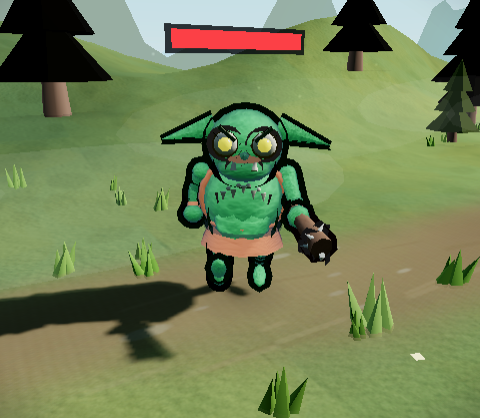
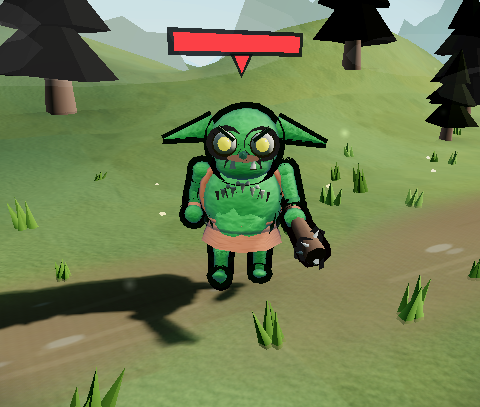
고블린 14개·임프 7개의 완전구도 유기 변형으로 (enemy-quality ⓒ 고블린·임프)
늑대에서 만든 sculptOrganic 을 그대로 적용. 눈알·뿔·발굽·송곳니·귀는
완전구/뾰족함이 정답이라 손대지 않았다.

- seed 를 base + s*k (s = -1/1) 로 지으면 서로 다른 파츠가 같은 값에 떨어진다:
  어깨(78-5)·팔꿈치(82-9)·손(86-13)이 셋 다 73 이 돼 개체차 0.0061 로 반려.
  좌우를 base/base+1 로 붙이는 것도 부족(0.0113) — 7 이상 벌려 0.0237.
- 버섯 갓은 일부러 남겼다: driveCapFlap 이 반지름을 축으로 정점을 흔들어서,
  정적 반경 변동을 얹으면 앞 세션의 플랩 측정이 조용히 깨진다.
- probe-flesh-sculpt 를 종 인자로 일반화 — 3종 15항목 전부 통과.
- 회귀: probe-enemy-ao 6종 후프 유출 0 · probe-screens-errors 31/31 에러 0.
- 인프라 함정 2건 인계: refresh 는 더러운 트리에서도 실패한다 / 프로브가
  도는 중에 stash 하면 헤드리스가 읽던 js 가 바뀌어 프로브가 통째로 죽는다.

diff --git a/web/js/scene3d.js b/web/js/scene3d.js
@@ -5926,11 +5926,17 @@ const Scene3D = {
             const skinM = lam(base, ProChar.hideTex());
             const skinD = lam(base.clone().offsetHSL(0, 0, -0.12), ProChar.hideTex());
             const clothM = lam(new THREE.Color(0x99442e), ProChar.leatherTex()); // 러스트 레드 — 초원 배경 보호색 탈피 악센트 (비평가 지적)
+            // 몸·머리·턱·배·관절·손발이 전부 완전구였다(ⓒ). 살이라 골렘의 각진 자가 아니라 유기 변형을 건다.
+            // ⚠ seed 를 `base + s * k`(s = -1/1) 로 짓지 말 것 — 서로 다른 파츠가 같은 값에 떨어진다.
+            //    실측: 어깨(78-5)·팔꿈치(82-9)·손(86-13)이 셋 다 73 이 돼 개체차 0.0061 로 반려됐다.
+            //    ⚠ 좌우를 base/base+1 로 붙여 두는 것도 부족했다(0.0113) — s0 = seed*2.3391 이라
+            //       인접 seed 는 위상이 비슷하다. 파츠마다 **7 이상 벌린** 값을 쓴다.
+            const oSp = (r, w, h, seed, amp) => this.sculptOrganic(new THREE.SphereGeometry(r, w, h), seed, { amp });
             // 분절 다리: 대퇴 → 무릎 → 정강이 → 발
             for (const s of [-1, 1]) {
                 const hip = new THREE.Group();
                 hip.position.set(s * 0.12, 0.42, 0);
-                const hJ = mk(new THREE.SphereGeometry(0.065, 8, 6), skinM); // 고관절 구 — 걷기 스윙 시 몸통-다리 이음새 은폐
+                const hJ = mk(oSp(0.065, 8, 6, s > 0 ? 60 : 67, 0.09), skinM); // 고관절 구 — 걷기 스윙 시 몸통-다리 이음새 은폐
                 hip.add(hJ);
                 const thigh = limb(0.062, 0.05, 0.18, skinM);
                 thigh.rotation.x = -0.3; // 웅크린 자세
@@ -5938,7 +5944,7 @@ const Scene3D = {
                 knee.position.set(0, -0.16, 0.06);
                 const shin = limb(0.045, 0.04, 0.17, skinD);
                 shin.rotation.x = 0.35;
-                const foot = mk(new THREE.SphereGeometry(0.055, 8, 6), skinM);
+                const foot = mk(oSp(0.055, 8, 6, s > 0 ? 74 : 81, 0.10), skinM);
                 foot.position.set(0, -0.17, 0.07); foot.scale.set(0.8, 0.5, 1.7);
                 knee.add(shin, foot);
                 hip.add(thigh, knee);
@@ -5948,9 +5954,9 @@ const Scene3D = {
                 g.add(hip);
             }
             // 서양배 몸통 (앞으로 굽음) + 로인클로스 + 로프 벨트
-            body = mk(new THREE.SphereGeometry(0.24, 12, 10), skinM);
+            body = mk(oSp(0.24, 12, 10, 88, 0.10), skinM);
             body.position.set(0, 0.62, 0.02); body.scale.set(1, 1.12, 0.92); body.rotation.x = 0.22;
-            const belly = mk(new THREE.SphereGeometry(0.17, 10, 8), light);
+            const belly = mk(oSp(0.17, 10, 8, 95, 0.09), light);
             belly.position.set(0, 0.55, 0.14); belly.scale.set(1, 1.1, 0.55);
             const cloth = mk(new THREE.CylinderGeometry(0.2, 0.26, 0.14, 10, 1, true), clothM);
             cloth.material.side = THREE.DoubleSide;
@@ -5982,12 +5988,12 @@ const Scene3D = {
             }
             g.add(body, belly, cloth, rope, strap, neckG);
             // 머리: 큰 두상 + 대형 뾰족귀(안쪽 어두운 이중판) + 매부리코 + 언더바이트 송곳니
-            const head = mk(new THREE.SphereGeometry(0.21, 12, 10), skinM);
+            const head = mk(oSp(0.21, 12, 10, 102, 0.07), skinM);   // 눈·귀가 상대 배치라 진폭을 낮게
             head.position.set(0, 0.95, 0.08); head.scale.set(1, 0.95, 0.95);
             // 턱 그룹 — 언더바이트를 앞으로 빼(두상 구에 파묻히던 문제) 송곳니를 턱에 직접 앵커 (비평가: 이빨 부유)
             const jawG = new THREE.Group();
             jawG.position.set(0, 0.845, 0.19);
-            const jaw = mk(new THREE.SphereGeometry(0.13, 10, 8), skinD);
+            const jaw = mk(oSp(0.13, 10, 8, 109, 0.09), skinD);
             jaw.scale.set(1.15, 0.55, 0.9);
             jawG.add(jaw);
             const mouthLine = mk(new THREE.SphereGeometry(0.055, 8, 6), new THREE.MeshBasicMaterial({ color: 0x2e1c14 })); // 벌린 입 다크 심 — 입 위치 실종 지적 (비평가)
@@ -6023,18 +6029,18 @@ const Scene3D = {
             for (const s of [-1, 1]) {
                 const sh = new THREE.Group();
                 sh.position.set(s * 0.25, 0.78, 0.02);
-                const sJ = mk(new THREE.SphereGeometry(0.055, 8, 6), skinM); // 어깨 관절 구 — 팔 스윙 시 이음새 은폐
+                const sJ = mk(oSp(0.055, 8, 6, s > 0 ? 116 : 123, 0.09), skinM); // 어깨 관절 구 — 팔 스윙 시 이음새 은폐
                 sh.add(sJ);
                 const upper = limb(0.05, 0.042, 0.17, skinM);
                 upper.rotation.z = s * 0.25;
                 const elbow = new THREE.Group();
                 elbow.position.set(s * 0.05, -0.17, 0);
-                const eJ = mk(new THREE.SphereGeometry(0.042, 7, 5), skinM); // 팔꿈치 관절 구 — 굽힘 이음새 은폐
+                const eJ = mk(oSp(0.042, 7, 5, s > 0 ? 130 : 137, 0.09), skinM); // 팔꿈치 관절 구 — 굽힘 이음새 은폐
                 elbow.add(eJ);
                 const fore = limb(0.04, 0.036, 0.15, skinD);
                 const wristBand = mk(new THREE.CylinderGeometry(0.041, 0.041, 0.05, 8), clothM); // 손목 랩 악센트
                 wristBand.position.y = -0.12;
-                const hand = mk(new THREE.SphereGeometry(0.062, 8, 6), skinM); // 큼직한 주먹 — 국수 가락 팔 끝 오독 방지
+                const hand = mk(oSp(0.062, 8, 6, s > 0 ? 144 : 151, 0.11), skinM); // 큼직한 주먹 — 국수 가락 팔 끝 오독 방지
                 hand.position.y = -0.16; hand.scale.set(1, 0.85, 1.1);
                 elbow.add(fore, wristBand, hand);
                 if (s > 0) { // 가시 몽둥이 — 주먹 중심을 자루가 관통하도록 (손목 옆 부유 금지)
@@ -6290,6 +6296,8 @@ const Scene3D = {
             const skinM = lam(base, ProChar.hideTex());
             const skinD = lam(base.clone().offsetHSL(0, 0, -0.12), ProChar.hideTex());
             const boneM = new THREE.MeshLambertMaterial({ color: 0xf3ead6 });
+            // 몸·머리·배·관절·손이 전부 완전구였다(ⓒ). 살이라 유기 변형을 건다(뿔·발굽 Cone 은 뾰족함이 정답이라 그대로).
+            const oSp = (r, w, h, seed, amp) => this.sculptOrganic(new THREE.SphereGeometry(r, w, h), seed, { amp });
             // 디지타이그레이드 다리: 대퇴 → 역관절 정강이 → 발굽
             for (const s of [-1, 1]) {
                 const hip = new THREE.Group();
@@ -6308,13 +6316,13 @@ const Scene3D = {
                 g.add(hip);
             }
             // 몸통 캡슐 + 밝은 배 패치
-            body = mk(new THREE.SphereGeometry(0.15, 10, 8), skinM);
+            body = mk(oSp(0.15, 10, 8, 90, 0.10), skinM);
             body.position.y = 0.4; body.scale.set(1, 1.25, 0.9);
-            const belly = mk(new THREE.SphereGeometry(0.1, 8, 6), light);
+            const belly = mk(oSp(0.1, 8, 6, 93, 0.09), light);
             belly.position.set(0, 0.36, 0.09); belly.scale.set(1, 1.25, 0.5);
             g.add(body, belly);
             // 머리 + 곡선 2단 뿔 + 뾰족귀
-            const head = mk(new THREE.SphereGeometry(0.125, 10, 8), skinM);
+            const head = mk(oSp(0.125, 10, 8, 96, 0.07), skinM);   // 뿔·눈이 상대 배치라 진폭을 낮게
             head.position.y = 0.63;
             g.add(head);
             for (const s of [-1, 1]) {
@@ -6366,10 +6374,10 @@ const Scene3D = {
                 upper.rotation.z = s * 0.4;
                 const elbow = new THREE.Group();
                 elbow.position.set(s * 0.04, -0.1, 0);
-                const eJ = mk(new THREE.SphereGeometry(0.026, 7, 5), skinM); // 팔꿈치 관절 구 — 굽힘 이음새 은폐
+                const eJ = mk(oSp(0.026, 7, 5, 99 + s * 4, 0.09), skinM); // 팔꿈치 관절 구 — 굽힘 이음새 은폐
                 elbow.add(eJ);
                 const fore = limb(0.024, 0.02, 0.09, skinD);
-                const hand = mk(new THREE.SphereGeometry(0.036, 7, 5), skinM);
+                const hand = mk(oSp(0.036, 7, 5, 104 + s * 6, 0.11), skinM);
                 hand.position.y = -0.1;
                 elbow.add(fore, hand);
                 for (let ci = 0; ci < 3; ci++) { // 갈퀴 발톱 — '손 없는 캡슐' 오독 제거

diff --git a/web/tools/probe-flesh-sculpt.js b/web/tools/probe-flesh-sculpt.js
@@ -1,4 +1,4 @@
-// 살·털 종 조형(ⓒ 유기 변형) 실측 — 사용: node probe-flesh-sculpt.js
+// 살·털 종 조형(ⓒ 유기 변형) 실측 — 사용: node probe-flesh-sculpt.js [종...]  (기본: 늑대·고블린·임프)
 // TODO '적 몬스터 퀄리티 업'(slug: enemy-quality) ⓒ 의 골렘 이후 분. 골렘은 `boulderGeo` 로 **각지게**
 // 깎았지만 늑대·고블린·임프는 살이라 같은 자를 대면 '수정 늑대'가 된다 — `Scene3D.sculptOrganic` 은
 // 저주파·저진폭으로 **부드럽게** 윤곽만 깬다. 그래서 게이트도 golem 쪽(probe-golem-bevel)과 다르다.
@@ -20,14 +20,14 @@ const INDEX = 'file://' + require('path').resolve(__dirname, '../index.html');
 const CV_MIN = 0.022;    // 완전구는 0. 유기 변형은 골렘(0.055)보다 약하게 거는 게 의도다.
 const SMOOTH_MAX = 34;   // 이웃 면 법선각 평균 상한(도) — 넘으면 결정처럼 각졌다는 뜻
 const DIFF_MIN = 0.015;  // 파츠 간 정규화 반경 RMS 차
+const KINDS = process.argv.slice(2).length ? process.argv.slice(2) : ['wolf', 'goblin', 'imp'];
 
-(async () => {
-    const browser = await chromium.launch({ executablePath: '/opt/pw-browsers/chromium', args: ['--use-gl=angle', '--enable-unsafe-swiftshader'] });
+const runKind = async (browser, KIND) => {
     const page = await browser.newPage({ viewport: { width: 480, height: 854 } });
     const errors = [];
     page.on('pageerror', e => errors.push(String(e)));
     page.on('console', m => { if (m.type() === 'error') errors.push(m.text()); });
-    await page.goto(INDEX + '?enemy=wolf', { waitUntil: 'load' });
+    await page.goto(INDEX + '?enemy=' + KIND, { waitUntil: 'load' });
     await page.waitForFunction(() => typeof Scene3D !== 'undefined' && Scene3D.scene, null, { timeout: 60000 });
     await page.waitForTimeout(1200);
 
@@ -165,8 +165,9 @@ const DIFF_MIN = 0.015;  // 파츠 간 정규화 반경 RMS 차
         return out;
     });
 
+    await page.close();
     const fails = [];
-    console.log(`늑대 구 유래 덩어리 ${res.nSphere}개 · 공용 캡슐 캡 ${res.nCapsule}개(게이트 제외)`);
+    console.log(`\n[${KIND}] 구 유래 덩어리 ${res.nSphere}개 · 공용 캡슐 캡 ${res.nCapsule}개(게이트 제외)`);
 
     const cvs = res.masses.map(m => m.cv);
     const minCv = Math.min(...cvs);
@@ -191,7 +192,14 @@ const DIFF_MIN = 0.015;  // 파츠 간 정규화 반경 RMS 차
     if (errors.length) fails.push(`콘솔 에러 ${errors.length}건: ${errors.slice(0, 3).join(' | ')}`);
     console.log(`콘솔 에러 ${errors.length}건`);
 
+    return fails.map(f => `[${KIND}] ${f}`);
+};
+
+(async () => {
+    const browser = await chromium.launch({ executablePath: '/opt/pw-browsers/chromium', args: ['--use-gl=angle', '--enable-unsafe-swiftshader'] });
+    let all = [];
+    for (const k of KINDS) all = all.concat(await runKind(browser, k));
     await browser.close();
-    if (fails.length) { console.log('\nFAIL:\n - ' + fails.join('\n - ')); process.exit(1); }
-    console.log('\n전부 PASS');
+    if (all.length) { console.log('\nFAIL:\n - ' + all.join('\n - ')); process.exit(1); }
+    console.log(`\n${KINDS.length}종 전부 PASS`);
 })();

diff --git a/web/TODO.md b/web/TODO.md
@@ -1791,6 +1791,7 @@
   - 진행 메모(3D 스트림 세션, 2026-08-17 15:0x): **② 시대 재질 정체성 완료 → ①②③ 전부 반영. 남은 건 ⑤의 비평가 채점뿐인데 그건 '최후반 폴리싱' 규칙에 걸려 있어 [ ] 유지**(다음 세션은 처음부터 만들 필요 없이 채점만 받으면 된다). **문제의 실체**: 무기는 `weaponMatKind`가 시대를 stone/bone/blackpowder/gunmetal/energy로 이미 갈라놨는데 **투구·갑옷·장신구는 전 시대가 같은 식 하나**였다 — `new THREE.Color(시대색).lerp(스틸, 0.32) + metalness .85`. 그래서 원시 '뼈 투구'도 매끈한 회백 금속으로 나와 **시대색만 다른 같은 물건**으로 읽혔다. **넣은 것**: ① `Scene3D.ageGearKind(age)`/`ageGearMats(age)` 신설 — 무기와 **같은 시대 구획**(0 primal / 1 forged / 2 brass / 3 polymer / 4+ alloy)으로 body·dark·trim 3종 재질을 굽는다. primal=돌 입자 맵+flatShading+metalness .02, forged=브러시드 결 맵+.86, brass=황동 .8, polymer=무광 폴리머 .34, alloy=어두운 합금 .9+언릿 발광 트림. ② `Scene3D.addAgeTrim(g, mats)` — 조립이 끝난 그룹의 **바운딩 박스에서 아랫단 밴드를 역산**해 계열별 디테일을 두른다(리벳 8개 / 발광 링+세로 스트립 / 가죽끈+뼈이빨 3개 / 황동 밴드+스터드 4개 / 벤트 슬랫 3줄). 스타일이 투구 11종·갑옷 6종이라 **좌표 상수로는 못 맞춘다** — 실제 크기에서 재는 게 유일한 방법. ③ 적용처: `makeHelmet`(인게임 투구와 공용) · `makeArmorPreview` · `makeArmorExtras`(4번째 인자로 mats, 인게임 호출부도 전달) · `makeAccessoryPreview`. **⚠ 두 번 밟은 함정**: ⑴ **맵은 albedo에 곱해진다** — rockTex 베이스가 #b9bcc0(≈0.73), leatherTex가 #c9b8a6이라 맵을 얹는 계열은 color를 그만큼 올려두지 않으면 시대색이 통째로 한 단 어두워진다(primal·forged에 +0.06 명도 보정). ⑵ **링은 원이 아니라 타원이어야 한다** — 갑옷 몸통은 0.46×0.30 박스라 원 링을 두르면 앞뒤로 6cm 떠서 '허공의 고리'가 된다. `ellipseRing()`이 토러스를 눕힌 뒤 scale.y로 z반경을 맞춘다(rotation.x=π/2면 **로컬 y가 월드 z**). ⑶ 갑옷 트림은 **견갑·망토를 붙이기 전에** 둘러야 한다 — 다 붙인 뒤 재면 반경이 0.23→0.44로 커져 리벳이 가슴 앞 허공에 뜬다. ⑷ 하드코딩된 파생 재질(`metalness: 0.85` 고정으로 만들던 림·코가드·가면판·tech 셸)을 `tintOf(base, 명도차)`로 갈았다 — 안 그러면 원시 투구에 강철 림만 반짝인다. **가죽·로브 계열**(hide/robe/망토/로브자락)은 시대색은 유지한 채 metalness만 빼서 '철판 원피스'를 막았다. **검증**: `web/tools/probe-age-materials.js`(신설) 5항목 전부 통과 — 재질 계열 5구획 / 계열별 PBR 서명 5종 고유 / 전 10시대 디테일 부착(원시 4개·중세 8개·근세 5개·현대 3개·미래 2개) / 시대별 썸네일 픽셀 전부 상이 / 콘솔 에러 0. 컨택트 시트 `web/tools/shot-age-gear.js` → `web/tools/age-gear.png`(시대 10행 × 부위 6열, 192px). 회귀: probe-screens-errors 31/31 · probe-forge-list-thumbs 5항목 전부 통과(그룹 80개 중복 0 유지). **⚠ 별건 발견 — `web/tools/shot-helm.js`의 카메라 피팅이 깨져 있다**: 투구가 아니라 **뒤쪽 풍경**이 찍힌다(내 변경 전 코드로 되돌려 찍어도 같은 그림 = 기존 결함, 회귀 아님). 투구를 근접 검증하려는 다음 세션은 이 도구부터 고칠 것.
   - 진행 메모(3D 스트림 세션, 2026-08-17 13:xx): **①·③ 완료, ② 시대 재질 정체성만 남음 — [ ] 유지.** **① 이모지 반복 제거**: `renderForgeListView`가 부위별 고정 이모지(🪖/👕/SLOT_EMOJI)를 이름 개수만큼 찍던 걸, 이미 있던 3D 스냅샷 파이프라인(`Scene3D.itemThumb` — 장비 상세 팝업이 쓰던 것)으로 교체했다. **③ 이름 정합(부분)**: 중복의 진짜 원인은 목록 렌더가 아니라 `HELMET_STYLES`/`ARMOR_STYLES`가 **한 시대 안에서 같은 스타일을 두 번 쓰던 것**이었다(예: 원시 helmet `['hair','mask','mask','visor','plume']` → 가면과 전투 페인트가 같은 모델). 스타일이 곧 프리뷰 모델이라 이름만 다르고 그림이 같았다 — 두 표를 **시대 안에서 전부 고유**하도록 이름 뜻에 맞춰 재배정했다(깃털 모자=plume, 뱀의 화관=crown 식). 실측: (시대,부위) 80개 그룹 **전부 고유, 중복 0** (이전 17개 그룹 중복). **하이드레이트 방식 주의**: 셀이 306개라 목록 열 때 전부 구우면 얼어붙는다(첫 `itemThumb`가 썸네일 렌더러+PMREM을 만드느라 소프트웨어 GL 실측 2.4초). 프레임당 6장씩 나눠 굽고 목록이 닫히거나 재렌더되면 중단한다. **IntersectionObserver 지연 로딩은 쓰지 말 것 — 헤드리스에서 콜백이 아예 안 와서 썸네일이 하나도 안 뜬다(실측).** 밝은 장비가 흰 칸에 묻혀 빈 칸처럼 보여 `.fl-face.has-thumb`에 옅은 바탕만 추가. **남은 일 ②**: 시대별 재질 언어(원시=돌·나무·뼈·가죽, 중세=단조 철·리벳, 미래=합금·발광 라인)를 실제 프리뷰 모델 재질에 반영 — 지금은 시대색만 다르고 재질감은 공통이라 원시 장비도 매끈한 회백색으로 나온다. 검증: `web/tools/probe-forge-list-thumbs.js` 5항목 통과, 목록 캡처 `web/tools/forge-list-thumbs.png`, 전 화면 스모크 31/31 콘솔 에러 0건.
 - [ ] **적 몬스터 퀄리티 업 (slug: enemy-quality) (사용자 지시)**: GLB 삭제로 복귀한 프로시저럴 적 7종(슬라임·골렘·고블린·박쥐·버섯·늑대·임프)+보스 변형의 품질을 영웅과 같은 수준으로 끌어올릴 것 — 영웅에 적용한 기법(캔버스 생성 텍스처, AO 링, 관절 분절 리그, 베벨 지오메트리, 얼굴 디테일)을 적에도 적용하고, 종별 개성(실루엣·재질·고유 모션)을 강화. 비평가 'AAA 모바일 3D 게임 적으로 믿을 수 있는가' 9/10 통과제, 종 단위로 나눠 커밋 가능.
+  - 진행 메모(3D 스트림, 2026-08-18 04:4x — **ⓒ 고블린·임프 완료(골렘·늑대에 이어 4종). 버섯·ⓓ~ⓕ 남아 [ ] 유지**): ■ **처리**: 고블린 14개(몸·배·머리·턱·고관절·어깨·팔꿈치·손·발)와 임프 7개(몸·배·머리·팔꿈치·손)의 완전구에 `sculptOrganic` 적용. 늑대에서 만든 자를 그대로 썼고 새 코드는 없다. ⚠ **눈알·코·뿔·발굽·송곳니·귀(Cone)·목걸이 구슬은 손대지 않았다** — 완전구/뾰족함이 정답인 부위다. ■ 🚨 **함정 1건 — seed 를 `base + s * k`(s = -1/1) 로 짓지 말 것**: 고블린에서 어깨(78−5)·팔꿈치(82−9)·손(86−13)이 **셋 다 73** 에 떨어져 세 파츠가 같은 덩어리가 됐다(개체차 0.0061 로 반려). 좌우를 `base`/`base+1` 로 붙이는 것도 **부족했다**(0.0113) — `s0 = seed * 2.3391` 이라 인접 seed 는 위상이 비슷하다. 파츠마다 **7 이상 벌린** 값으로 바꿔 0.0237 이 됐다. ■ **버섯은 일부러 남겼다**: 갓 돔(`dome`)이 이 종의 실루엣 대부분인데, 앞 세션이 넣은 `driveCapFlap` 이 **중심에서의 반지름을 축으로** 정점을 흔든다. 여기에 정적 반경 변동을 얹으면 플랩의 기준선이 바뀌어 `probe-cap-flap` 의 띠별 위상 지연 측정이 통째로 흔들린다. **플랩 진폭과 조형 변위를 분리해 잴 방법을 먼저 세운 뒤** 손댈 것 — 아무 생각 없이 `sculptOrganic` 을 걸면 앞 세션 작업이 조용히 깨진다. ■ 🚨 **인프라 함정 2건(다음 세션이 그대로 밟는다)**: ㉠ **`claim.sh refresh` 는 더러운 트리에서도 실패한다.** TODO 규칙은 detached HEAD 만 원인으로 적어 뒀지만, 커밋 안 한 작업 파일이 있으면 `push_lock` 의 `pull --rebase` 재시도가 거부돼 똑같이 `WARN ... push 실패` 가 나고 **remote ts 가 안 올라간다**(실측: `## main...origin/main [ahead 1]` = 락 커밋이 로컬에만 쌓임). 대응은 `git stash -u` → refresh → `git stash pop`. ㉡ **⚠ 그런데 프로브가 도는 중에는 stash 하지 말 것** — 헤드리스 브라우저가 `file://` 로 디스크의 js 를 읽는 중이라, stash 가 파일을 되돌리면 **실행 중이던 프로브 3개가 통째로 빈 출력만 남기고 죽는다**(실측). 리스 갱신은 프로브를 다 돌린 뒤에 할 것. ■ **검증**: `probe-flesh-sculpt.js` 를 종 인자로 받게 일반화(기본 늑대·고블린·임프) — **3종 15항목 전부 통과**. 고블린 cv 0.0276~0.0595 · 개체차 31쌍 최소 0.0237 / 임프 cv 0.0267~0.0563 · 개체차 7쌍 최소 0.0208 / 이음새 찢어짐 0 · 법선각 27.5°·27.7°(상한 34°) · 결정론 최대차 0. 회귀: `probe-enemy-ao` **6종 전부 후프 유출 0** · `probe-screens-errors` **31/31 콘솔 에러 0** · `enemy-goblin.png`·`enemy-imp.png` 재촬영. ■ **다음 세션 착수 지점**: ⓒ 는 **버섯 갓만 남았다**(위 단서 참조, 선행 과제 있음). 그 외 ⓒ 잔여는 `Cone`·`Box` 계열인데 뿔·귀·송곳니·마그마 균열처럼 **의도적으로 각진 것들**이라 사실상 종료로 봐도 된다. → ⓓ 종별 고유 모션 → ⓔ 보스 변형 → ⓕ 비평가 9/10 채점.
   - 진행 메모(3D 스트림, 2026-08-18 04:1x — **ⓒ 늑대 완료(골렘에 이어 2종). ⓒ 나머지 종·ⓓ~ⓕ 남아 [ ] 유지**): ■ **실체**: 늑대의 몸 덩어리 17개(흉곽·골반·러프·두개골·콧등·아랫배·근육 4·발 4·꼬리 3)가 전부 **완전구를 mesh.scale 로 눌러 만든 타원체**였다 — '회색 캡슐 조립' 오독의 본체다. ■ **골렘 자를 그대로 대면 안 된다**: `boulderGeo` 는 각진 파셋이 정답인 '돌'의 자라, 살·털에 걸면 '수정 늑대'가 된다. 그래서 `Scene3D.sculptOrganic(geo, seed, opt)` 를 따로 신설했다 — 저진폭·저주파로 **부드럽게** 윤곽만 깨고 법선을 매끈하게 다시 계산한다. 또 `boulderGeo` 와 달리 **이미 만들어진 지오메트리를 제자리에서** 바꾼다(호출자가 정한 분할수와 mesh.scale 을 그대로 살려야 해서다). ■ 🚨 **함정 1건 — 주파수를 너무 낮추면 변형이 통째로 무효다**: 처음 계수를 2.3/1.7/1.29 로 뒀더니 **같은 amp 인데 seed 에 따라 반경 변동계수가 0.0188~0.0542 로 요동**쳤다. 원인은 크기가 아니라, **물체 지름에 한 주기가 안 들어가면 변위가 사실상 '균일 스케일 + 평행이동'에 수렴**해 실루엣이 하나도 안 깨지는 것이었다(사인의 단조 구간에 물체가 통째로 얹히는 seed 가 있다). 3.1/2.6/2.1 로 올려 지름에 대략 한 주기가 들어가게 하니 seed 와 무관하게 0.0312~0.0662 로 안정됐다. **진폭을 올리는 게 아니라 주파수를 올리는 게 답이었다** — amp 를 키우면 '녹아내린' 인상만 늘고 cv 는 그대로다. ■ 🚨 **함정 2건 — 프로브 필터가 두 번 연속 틀렸다(측정 대상 오선정)**: ㉠ 눈알(흰자·홍채·동공·하이라이트)이 같은 `SphereGeometry` 라 그대로 섞여 들어와 **개체차 최소 0.0000** 이 나왔다 — 눈은 **완전구가 정답**이라 게이트에 들어가면 영원히 FAIL 한다. 털 재질(hideTex 맵)로 걸렀다. ㉡ `ProChar.capsule` 의 반구 캡 8개도 같은 furM 을 물어 재질 필터를 통과했다. **자식 수로 캡슐을 판별하면 안 된다** — 분절 사지는 캡슐 그룹에 다음 마디를 매달아 키워서(`upper.add(lower)`) 자식이 3개다(골렘용으로 쓴 '정확히 2개' 조건이 늑대에서 그대로 빗나갔다). 반대로 '같은 재질 Cylinder 형제가 있으면 캡슐'로 느슨하게 잡으면 이번엔 **몸통이 통째로 제외된다**(늑대는 `belly`·`neckW` 원기둥이 흉곽·골반과 같은 재질·같은 그룹이라, 측정 대상이 19→7 로 줄었다). 최종적으로 **기하학으로 확정**했다: 캡 반지름 = 원기둥 아래 반지름이고 **캡의 y 가 원기둥 y 의 정확히 2배**다(캡슐이 y=-len/2, y=-len 에 놓이므로). 캡슐은 두 피스 다 게이트 밖이라 **양쪽 역할을 다 보게** 했다 — 캡만 거르면 원기둥 6개가 도로 '프리미티브 잔존'으로 잡힌다. 이 판별은 `probe-golem-bevel.js` 에도 같이 반영했다(골렘 재검증 통과). ■ **검증**: 신설 `tools/probe-flesh-sculpt.js` 5항목 **전부 통과** — 반경 변동계수 **0.0312~0.0662**(완전구는 0, 게이트 0.022) · 변형 **전** 좌표로 무리 지은 이음새 정점군 10개 중 **찢어진 쌍 0**(uv 이음새·극점은 같은 좌표 정점이 여러 벌이라 인덱스 해시면 그대로 찢어진다) · 이웃 법선각 평균 최대 **24.5°**(상한 34° — 각지면 '살에 바위 자를 댄 것') · 결정론 최대차 **0** · 파츠 20쌍 최소차 **0.0312**(게이트 0.015). 회귀: `probe-enemy-ao` 늑대 링 5개 후프 유출 0 · `probe-screens-errors` **31/31 콘솔 에러 0** · `enemy-wolf.png` 재촬영(유기 변형은 의도대로 **은은해서** 96px 썸네일에서는 차이가 작다 — 판정은 캡처가 아니라 cv 수치로 할 것). ■ **덤으로 죽은 코드 1건 발견 → QA 등재**(`wolf-backstripe-dead`): 등 다크 새들 `backStripe` 가 만들어만 지고 `g.add()` 가 안 돼 **화면에 한 번도 나온 적이 없다**(프로브가 17개를 잡았는데 코드상 18개여서 역추적). 규칙 3대로 고치지 않고 등재만 했다. ■ **다음 세션 착수 지점 = ⓒ 고블린·임프·버섯**. `sculptOrganic` 을 그대로 쓰면 된다(살 계열). 남은 census: 고블린 `Sphere 11`·`Cone 6`, 임프 `Sphere 5`·`Cone 7`, 버섯 `Sphere 5`·`Box 1`. ⚠ **눈알·코·뿔·송곳니·귀(Cone)는 건드리지 말 것** — 완전구/뾰족함이 정답인 부위다. → ⓓ 종별 고유 모션 → ⓔ 보스 변형 → ⓕ 비평가 9/10 채점.
   - 진행 메모(3D 스트림, 2026-08-18 03:5x — **ⓒ 착수·골렘 완료. ⓒ 나머지 종·ⓓ~ⓕ 남아 [ ] 유지**): ■ **실체**: 골렘의 어깨 볼더·팔꿈치 관절·주먹·너클 6개·골반·발·머리가 **전부 `SphereGeometry`**(16피스), 눈두덩은 `BoxGeometry`, 목은 `CylinderGeometry` 였다. `flatShading` 이 켜져 있어 **면은** 갈려 있었는데도 '눈사람'으로 읽힌 이유가 이것이다 — **깨야 하는 건 면 음영이 아니라 실루엣**이다(구는 어떤 플랫셰이딩을 걸어도 윤곽이 완전한 원이다). 장비의 '박스는 어떤 라이팅을 걸어도 박스'와 같은 벽의 거울상이고, 골렘 주석이 스스로 '눈사람 금지'라 적어 둔 바로 그것이다. ■ **앞 메모의 '헬퍼를 그대로 쓸 수 있다'는 절반만 맞았다**: `beveledSlab`·`shellFromRings` 는 **판과 관**에만 맞는다(눈두덩·목은 그걸로 됐다). **덩어리**에 쓸 게 없어 신설했다 — `Scene3D.boulderGeo(rad, seed, opt)`: `IcosahedronGeometry`(detail 1) 정점을 좌표 해시로 밀어 윤곽 자체를 깬다. ■ **맵 프롭 `rockGeo` 와 셋이 다르다**(그래서 재사용 대신 신설): ㉠ **시드가 결정론적** — `rockGeo` 는 `Math.random()` 시드를 쓰는데, 적 메시가 그러면 프로브가 같은 값을 못 재고 전역 RNG 소비량이 바뀌어 `shot-biomes.js` 의 시드 고정 프롭 배치가 통째로 밀린다. ㉡ **정점 컬러를 안 굽는다** — 골렘 재질은 `vertexColors` 가 꺼져 있고 켜면 색이 곱해져 스윕으로 채택한 명도가 내려간다. 여기서 바꾼 건 실루엣뿐이다. ㉢ 밑면을 눌러 쪼개진 단면을 남긴다(발은 `flatBottom` 0.34 — 둥근 밑면은 땅에 안 얹힌 것처럼 뜬다). ■ 🚨 **함정 1건**: 변위 해시는 **좌표를 반올림해서** 뽑을 것. `IcosahedronGeometry` 는 비인덱스라 같은 모서리 정점이 여러 벌 있는데, **detail>0 이면 세분 보간이 면마다 미세하게 달라 생좌표로 해시하면 그 오차만큼 메시가 갈라진다**(잎 조형이 밟은 '인덱스로 뽑지 말 것'의 한 단계 아래 함정 — 좌표로 뽑아도 양자화를 빼면 똑같이 뚫린다). ■ **일부러 안 건드린 것 3종**: ⑴ `ProChar.capsule` 사지 6개 — **영웅도 쓰는 공용 프리미티브**고 피벗이 위쪽 끝인 분절 리그가 얹혀 있어 지오메트리를 갈면 굽힘이 통째로 틀어진다 ⑵ 이끼 구(무른 유기물이라 각지면 안 된다) ⑶ 마그마 균열 박스(폭 0.013 — 베벨을 넣어도 화면에 아무 차이가 없다). 프로브가 이 3종을 게이트에서 제외하는 근거를 코드 주석으로 달아 뒀다. ■ **검증**: 신설 `tools/probe-golem-bevel.js` 5항목 **전부 통과** — 바위 재질 프리미티브 잔존 **0** · 반경 변동계수 **0.0659~0.1205**(완전구는 0, 게이트 0.055) · 위치 병합 후 **경계 모서리 0개**(구멍 없음) · 같은 seed 재호출 정점 최대차 **0**(결정론) · 파츠 60쌍 최소차 **0.0792**(게이트 0.040). ⚠ 개체차를 **상관계수로 재지 말 것**은 여기서도 유효해 반경 RMS 차를 썼다. 회귀: `probe-enemy-ao` 골렘 링 4개 **후프 유출 0**(실루엣이 울퉁불퉁해졌는데도 AO 링이 여전히 몸 안에 앉는다 — 이게 깨질까 봐 잰 것) · `probe-screens-errors` **31/31 콘솔 에러 0** · `enemy-golem.png` 재촬영(전/후 대조: 둥근 공 더미 → 각진 바위 덩어리). ■ **다음 세션 착수 지점 = ⓒ 나머지 종**. 남은 구·박스 census: 늑대 `Sphere 11`·`Box 1`·`Cone 5`, 고블린 `Sphere 11`·`Cone 6`, 임프 `Sphere 5`·`Cone 7`, 버섯 `Sphere 5`·`Box 1`. ⚠ **`boulderGeo` 를 그대로 갖다 쓰지 말 것** — 저건 '돌'의 자다. 살·털 종은 각진 파셋이 아니라 **부드러운 비대칭**이 필요하므로 `sculptFoliage` 계열(낮은 amp·수직 성분 감쇠)을 참고할 것. → ⓓ 종별 고유 모션 → ⓔ 보스 변형 → ⓕ 비평가 9/10 채점.
   - 진행 메모(3D 스트림, 2026-08-18 03:3x — **바로 아래 '주워 갈 것 하나'(AO 링 감쇠 알파맵) 처리 완료**): 폐기된 중복 구현에만 있던 개선을 인계 메모대로 얹었다. 4×64 흑백 세로 그라디언트를 `CanvasTexture` 로 구워 `alphaMap` 에 물리고, 기준 불투명도 0.5→0.75(op 지정 링은 ×1.5), `radialSegments` 6→10. **인계된 함정 2개를 그대로 지켰다** — ㉠ 알파 채널이 아니라 **색(회색조)** 으로 그렸다 ㉡ `uv.y=0 이 바깥 적도`라 **0(과 1) 쪽을 진하게** 깔았다(가운데를 진하게 깔면 정확히 반대로 걸린다). **실측으로 방향이 맞았음을 확인**: `probe-enemy-ao` 최대 하락폭이 골렘 53.1→**71.2** · 임프 70.8→**85.4** · 버섯 65.8→**79.9** 로 **올랐다**(뒤집혔다면 인계 메모대로 1/3로 죽었을 것이다). 이음새 심은 더 진해지고 옆구리로 갈수록 풀려 '검은 테이프' 인상이 사라졌다. 커버리지(어두워진 화소 104~296)와 **후프 유출 0** 은 그대로 유지. 회귀: `probe-enemy-ao` **검사 6종 전부 PASS** · `probe-enemy-dissolve` **전 종 PASS**(알파맵 재질도 `dissolveBase` 경로를 정상으로 탄다) · `probe-screens-errors` **31/31 콘솔 에러 0** · `enemy-golem.png` 재촬영.
